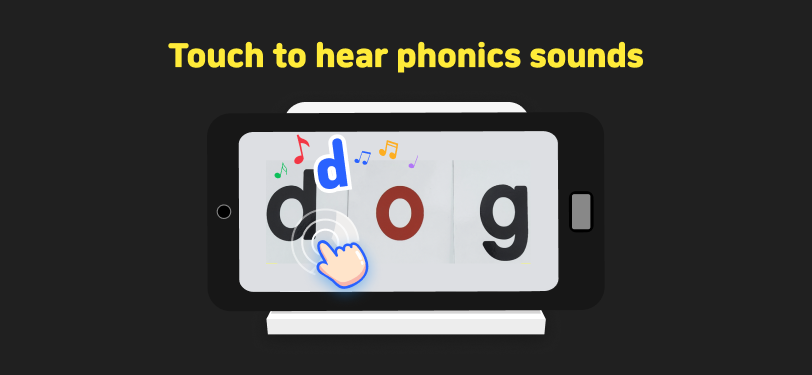
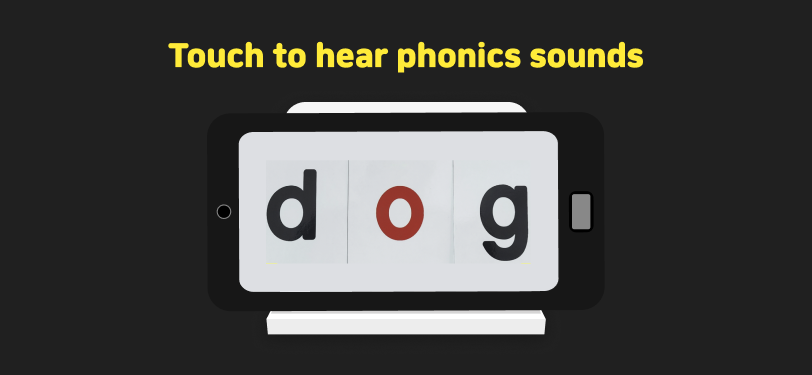
[Add] 튜토리얼 화면 손가락 애니메이션 추가.

Changed region(s): [[0.3387, 0.5573, 0.4618, 0.792], [0.3387, 0.352, 0.4926, 0.528]]

diff --git a/screens/TutorialScreen.js b/screens/TutorialScreen.js
@@ -1,6 +1,7 @@
 import {Image, StyleSheet, TouchableOpacity} from "react-native";
 import {useState} from "react";
 import RootScreen from "./RootScreen";
+import Lottie from "lottie-react-native";
 
 const TutorialScreen = () => {
   const [tutorialStage, setTutorialStage] = useState(0);
@@ -8,30 +9,40 @@ const TutorialScreen = () => {
     setTutorialStage(tutorialStage + 1);
   };
   return (
-    <TouchableOpacity
-      style={styles.tutorialScreen}
-      activeOpacity={0.8}
-      onPress={onPressTutorialImage}>
-      {tutorialStage === 0 && (
-        <Image
-          source={require("../assets/images/tutorial0.png")}
-          style={styles.tutorialImage}
-        />
-      )}
-      {tutorialStage === 1 && (
-        <Image
-          source={require("../assets/images/tutorial1.png")}
-          style={styles.tutorialImage}
-        />
-      )}
-      {tutorialStage === 2 && (
-        <Image
-          source={require("../assets/images/tutorial2.png")}
-          style={styles.tutorialImage}
-        />
-      )}
+    <>
+      <TouchableOpacity
+        style={styles.tutorialScreen}
+        activeOpacity={0.8}
+        onPress={onPressTutorialImage}>
+        {tutorialStage === 0 && (
+          <Image
+            source={require("../assets/images/tutorial0.png")}
+            style={styles.tutorialImage}
+          />
+        )}
+        {tutorialStage === 1 && (
+          <>
+            <Image
+              source={require("../assets/images/tutorial1.png")}
+              style={styles.tutorialImage}
+            />
+            <Lottie
+              source={require("../assets/images/handtap.json")}
+              autoPlay={true}
+              loop={true}
+              style={styles.handTap}
+            />
+          </>
+        )}
+        {tutorialStage === 2 && (
+          <Image
+            source={require("../assets/images/tutorial2.png")}
+            style={styles.tutorialImage}
+          />
+        )}
+      </TouchableOpacity>
       {tutorialStage === 3 && <RootScreen />}
-    </TouchableOpacity>
+    </>
   );
 };
 
@@ -51,6 +62,19 @@ const styles = StyleSheet.create({
     left: 0,
     bottom: 0,
     right: 0
+  },
+  handTap: {
+    transform: [
+      {
+        translateX: -75
+      },
+      {
+        translateY: 50
+      },
+      {
+        scale: 0.6
+      }
+    ]
   }
 });
 
